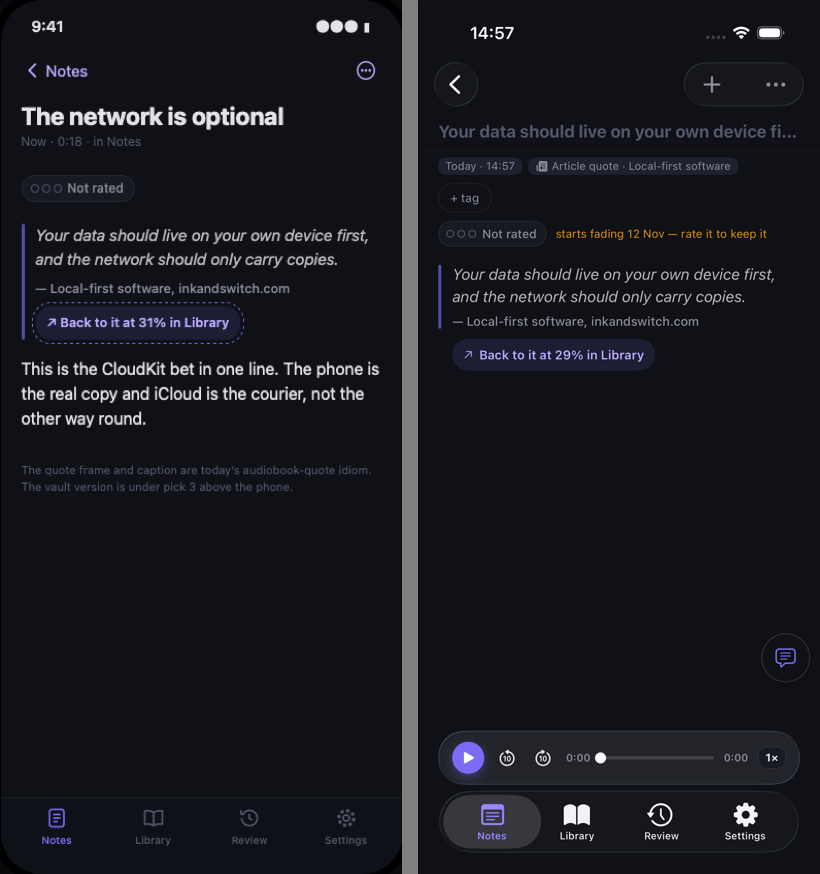
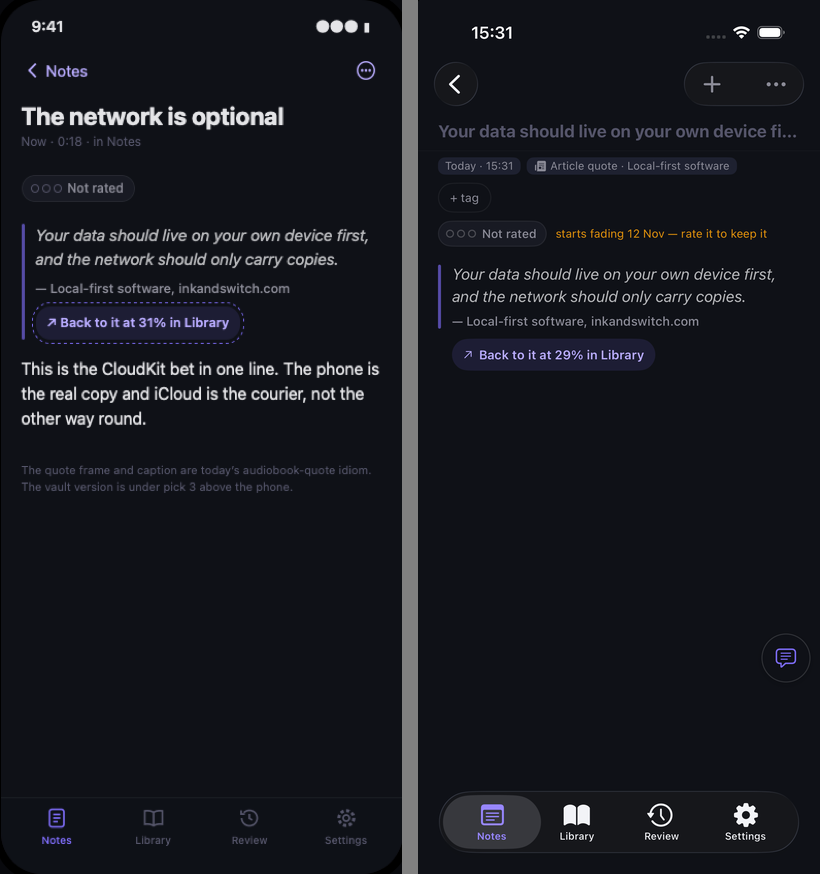
Q381: badge clears the site label, debug scroll hook, re-taken q355 pairs

diff --git a/Skrift_Native/SkriftMobile/Features/Audiobooks/BookCoverView.swift b/Skrift_Native/SkriftMobile/Features/Audiobooks/BookCoverView.swift
@@ -9,6 +9,8 @@ struct BookCoverView: View {
     let book: Audiobook
     /// Hide the placeholder title text below this edge length (mini-player thumb).
     var showsPlaceholderTitle = true
+    /// Q381: the shelf tile draws a type badge top-left, so an article's site label sits below it.
+    var reservesBadge = false
 
     var body: some View {
         GeometryReader { geo in
@@ -82,6 +84,7 @@ struct BookCoverView: View {
         let site = book.site ?? book.sourceURL.flatMap(URL.init(string:)).map(ArticleExtractor.site(of:)) ?? ""
         return VStack(alignment: .leading, spacing: 0) {
             if showsPlaceholderTitle {
+                if reservesBadge { Color.clear.frame(height: w * 0.13) }
                 Text(site.uppercased())
                     .font(.system(size: max(5, w / 18), weight: .semibold, design: .monospaced))
                     .kerning(0.06 * max(5, w / 18))

diff --git a/Skrift_Native/SkriftMobile/Features/Audiobooks/BookShelfTile.swift b/Skrift_Native/SkriftMobile/Features/Audiobooks/BookShelfTile.swift
@@ -27,7 +27,7 @@ struct BookShelfTile: View {
         Button(action: action) {
             VStack(alignment: .leading, spacing: 0) {
                 ZStack(alignment: .topTrailing) {
-                    BookCoverView(book: book)
+                    BookCoverView(book: book, reservesBadge: true)
                         .aspectRatio(1, contentMode: .fit)
                         .clipShape(.rect(cornerRadius: 12, style: .continuous))
                         .shadow(color: .black.opacity(0.3), radius: 6, y: 3)

diff --git a/Skrift_Native/SkriftMobile/Features/Audiobooks/LibraryArticleReader.swift b/Skrift_Native/SkriftMobile/Features/Audiobooks/LibraryArticleReader.swift
@@ -944,6 +944,10 @@ enum LibraryArticleDebug {
         } else {
             tv.becomeFirstResponder()
             tv.selectedRange = r
+            // `-scrollArticleReader`: a screenshot with the reading place moved (the progress line).
+            if ProcessInfo.processInfo.arguments.contains("-scrollArticleReader") {
+                tv.setContentOffset(CGPoint(x: 0, y: 150), animated: false)
+            }
         }
     }
 

diff --git a/plan/reads/library-tab/q355-diff.md b/plan/reads/library-tab/q355-diff.md
@@ -42,3 +42,7 @@ The share extension only runs inside a host app's share sheet. The one route tri
 3. App adds standard note chrome the mock leaves out: date chip, "Article quote · Local-first software" chip, "+ tag", "starts fading 12 Nov" warning.
 4. Back control: app circular chevron + "+" / "⋯" capsule; mock "‹ Notes" text and circled "⋯".
 5. Quote, attribution and "↗ Back to it at N% in Library" pill match the mock's idiom and accent colour.
+
+## Q381 re-take (same pairs, mock left, app right, 402 x 874)
+Fixed and looked at: (1) the note has no player bar; (2) ARTICLE badge on the article cover, site label moved below it; (3) selection and handles system blue; (4) 2 pt progress line under the status bar (`q381-reader-scrolled.png` shows the fill at 3%; seed pairs sit at 0% so only the grey track shows); (5) the notes row shows only when the article has notes, never "No notes yet"; (6) link-back is a boxed line with the vault sentence, quote block has more air (the dashed outline round the mock's capture block is the mock's "new" annotation, not a card, so no card was drawn); (7) noted sentences end in a ❝ that opens the note.
+Left as is: quote type stays 15.5 pt (the mock's CSS value; the mock frame is scaled up about 1.12 in the shot, so the 17 pt in the old list was a scaling artefact), tile byline and hint line, floating tab bar, back/menu controls, note chrome chips (items 2-4 of the earlier lists).
